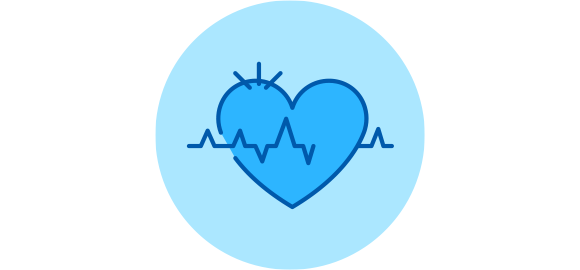
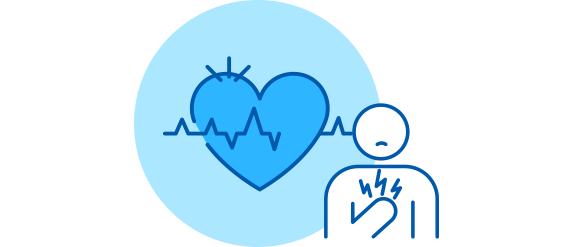
4차 mobile 9페이지 수정 완료

Changed region(s): [[0.207, 0.0, 0.7687, 1.0]]

diff --git a/m/css/page.css b/m/css/page.css
@@ -105,7 +105,7 @@
 .subPage main{ margin-top: 5.313rem; position: relative; z-index: 2; background-color: white; margin-bottom: 41.875rem;}
 .subPage main.aboutUsArea{/* padding-top: 5.313rem; */ padding-bottom:12.500rem; }
 .subPage main.supportsArea{padding-top: 8.438rem;}
-.subPage main.customresArea{padding-top: 8.438rem; padding-bottom:12.500rem;}
+.subPage main.customresArea{/* padding-top: 8.438rem; */ padding-bottom:12.500rem;}
 /* .aboutUsArea{padding-top: 8.438rem; padding-bottom:12.500rem;} */
 
 .subPage main .subTitlaBox{height: 175px; display: flex; flex-direction: column; justify-content: center; align-items: center;  background-repeat: no-repeat; background-position: center; background-size: cover;}
@@ -414,18 +414,18 @@
 .solutionArea > .contentArea > *{margin-bottom: 11.875rem;}
 
 .subPage .solutionArea .subMenu{margin-bottom: 0;}
-.solutionArea .startArea{text-align: center; position: relative; margin-bottom: 13.750rem; padding: 9.375rem 0 0;  background-color: #f5f8fa;}
-/* .solutionArea .startArea::before{content: ''; position: absolute; left: 0; top: -6.875rem; width: 100%; height: 35.000rem;background-color: #f5f8fa; z-index: -1;} */
+.solutionArea .startArea{text-align: center; position: relative; margin-bottom: 13.750rem; padding: 9.375rem 0 0;/*   background-color: #f5f8fa; */}
+.solutionArea .startArea::before{content: ''; position: absolute; left: 0; top: /* -6.875rem */0; width: 100%; height: 38.000rem;background-color: #f5f8fa; z-index: -1;}
 .solutionArea .startArea h4{font-size: 3.000rem; font-weight: 400; line-height: 3.625rem; margin-bottom: 2.188rem;}
 .solutionArea .startArea h4 b{font-weight: 700;}
 .solutionArea .startArea p{font-size: 1.375rem; line-height: 2.250rem; margin-bottom: 7.188rem;}
-.solutionArea .startArea img{width: 100%; max-width: 640px;}
-/* .solutionArea .startArea ol{display: flex; justify-content: center;}
+/* .solutionArea .startArea img{width: 100%; max-width: 640px;} */
+.solutionArea .startArea ol{display: flex; justify-content: center;}
 .solutionArea .startArea ol li{width: 22.938rem; height: 9.188rem; background-repeat: no-repeat; background-position: center top; position: relative; background-size: 9.188rem;}
 .solutionArea .startArea ol li:nth-child(1){background-image: url('../images/customres_solutionStart01.png');}
 .solutionArea .startArea ol li:nth-child(2){background-image: url('../images/customres_solutionStart02.png');}
 .solutionArea .startArea ol li:nth-child(3){background-image: url('../images/customres_solutionStart03.png');}
-.solutionArea .startArea ol li span{font-size: 1.375rem; font-weight: 700; line-height: 1.875rem; color: #34393e; text-align: center; position: absolute; top: calc(100% + 1.250rem); left: 0; width: 100%;  } */
+.solutionArea .startArea ol li span{font-size: 1.375rem; font-weight: 700; line-height: 1.875rem; color: #34393e; text-align: center; position: absolute; top: calc(100% + 1.250rem); left: 0; width: 100%;  }
 
 /* .solutionArea .kindArea{margin-bottom: 190px;} */
 .solutionArea .kindArea h5 ~ p:last-of-type{margin-bottom: 6.875rem;}
@@ -440,17 +440,22 @@
 .solutionArea .kindArea > div ul li strong mark{font-size: 1.375rem; font-weight: 700; display: block; margin-top: 1.250rem;}
 .solutionArea .kindArea > div ul li p{font-size: 1.188rem; line-height: 1.750rem;}
 
-.solutionArea .kindArea > div > strong{font-size: 1.750rem; font-weight: 700; display: block;}
-.solutionArea .kindArea > div > strong{margin-bottom: 2.500rem;}
-.solutionArea .kindArea > div > strong:not(:first-of-type){margin-top: 4.688rem;}
-.solutionArea .kindArea > div > img{width: 100%; max-width: 640px; margin-bottom: 1.875rem;}
-.solutionArea .kindArea > div > p{font-size: 1.313rem; line-height: 1.813rem;}
-.solutionArea .kindArea > div > p:not(:first-of-type){margin-top: 1.875rem;}
-.solutionArea .kindArea > div > p b{font-weight: 700;}
+.solutionArea .kindArea > div strong{font-size: 1.750rem; font-weight: 700; display: block;}
+.solutionArea .kindArea > div strong{margin-bottom: 2.500rem;}
+.solutionArea .kindArea > div strong:not(:first-of-type){margin-top: 4.688rem;}
+.solutionArea .kindArea > div img{width: 100%; max-width: 640px; /* margin-bottom: 1.875rem; */}
+.solutionArea .kindArea > div p{font-size: 1.313rem; line-height: 1.813rem;}
+.solutionArea .kindArea > div p:not(:first-of-type){margin-top: 1.875rem;}
+.solutionArea .kindArea > div p b{font-weight: 700;}
 
-.solutionArea .diagnosisArea{background-color:#f5f8fa; padding: 8.438rem 0 6.250rem;}
-.solutionArea .diagnosisArea > div{position: relative; padding-bottom: 29.375rem;}
-.solutionArea .diagnosisArea > div::after{content: ''; position: absolute; right: 0; bottom: 0; width: 100%; height: 26.875rem; background: url('../images/customres_solutionDiagnosisBG.png') no-repeat center / 25.313rem;}
+.solutionArea .causeArea img{margin-bottom: 55px;}
+
+.solutionArea .symptomArea p:last-of-type{margin-bottom: 55px;}
+
+.solutionArea .diagnosisArea{background:#f5f8fa url('../images/customres_solutionDiagnosisBG.png') no-repeat center bottom / 100%; padding: 8.438rem 0 480px; position: relative;}
+.solutionArea .diagnosisArea::before{content: ''; position: absolute; left: 0; bottom: 0; width: 320px; height: 450px; background: url('../images/customres_solutionDiagnosisImg02.png') no-repeat center / cover;}
+.solutionArea .diagnosisArea::after{content: ''; position: absolute; right: 0px; bottom: -150px; width: 320px; height: 588px; background: url('../images/customres_solutionDiagnosisImg01.png') no-repeat center / cover;}
+.solutionArea .diagnosisArea > div{position: relative; /* padding-bottom: 29.375rem; */}
 .solutionArea .diagnosisArea > div > p:last-of-type{margin-bottom: 6.250rem;}
 .solutionArea .diagnosisArea > div strong{font-size: 2.000rem; font-weight: 500; line-height: 2.313rem; display: block; margin-bottom: 2.500rem; letter-spacing: -0.063em;}
 .solutionArea .diagnosisArea > div ul li{font-size: 1.313rem; line-height: 1.750rem; padding-left: 3.125rem; position: relative;}
@@ -461,8 +466,9 @@
 .solutionArea .diagnosisArea > div ul li:not(:last-child){margin-bottom: 1.875rem;}
 
 .solutionArea .cureArea h5{margin-bottom: 4.375rem;}
-.solutionArea .cureArea > ul > li{height: 15.000rem; padding: 0 0 0 3.125rem; display: flex; flex-direction: column; justify-content: center; box-sizing: border-box; background-color: white; background-repeat: no-repeat; background-position: right top;  background-size: 11.875rem; box-shadow: 0px 0px 0.625rem 0px rgba(0, 0, 0, 0.2);}
-.solutionArea .cureArea > ul > li:not(:last-child){margin-bottom: 1.875rem;}
+.solutionArea .cureArea > ul{border-top: 1px solid #c7c7c7;}
+.solutionArea .cureArea > ul > li{height: 15.000rem; padding: 0 0 0 3.125rem; display: flex; flex-direction: column; justify-content: center; box-sizing: border-box; background-color: white; background-repeat: no-repeat; background-position: right top;  background-size: 11.875rem; border-bottom: 1px solid #c7c7c7;}
+/* .solutionArea .cureArea > ul > li:not(:last-child){margin-bottom: 1.875rem;} */
 .solutionArea .cureArea > ul > li:nth-child(1){background-image: url('../images/customres_solutionCure01.png');}
 .solutionArea .cureArea > ul > li:nth-child(2){background-image: url('../images/customres_solutionCure02.png');}
 .solutionArea .cureArea > ul > li:nth-child(3){background-image: url('../images/customres_solutionCure03.png');}

diff --git a/m/customres_solution.html b/m/customres_solution.html
@@ -64,12 +64,12 @@
 
         <main class="solutionArea customresArea">
             <div class="mobileWidth">
-                <h2>customres</h2>
+                <h2 class="textHidden">customres</h2>
                 <h3 class="textHidden">solution</h3>
-                <ul class="subMenu">
+                <!-- <ul class="subMenu">
                     <li class="active"><a href="customres_solution.html">solution</a></li>
                     <li><a href="customres_howTo.html">How to use</a></li>
-                </ul>
+                </ul> -->
             </div>
             <div class="contentArea">
                 <div class="startArea">
@@ -80,8 +80,8 @@
                         대부분 부정맥은 대수롭지 않으며 위험하지 않습니다.<br/>
                         하지만, 매우 소수의 사람에게서 위험한 부정맥이 발생할 수 있으며 즉각적인 치료가 필요합니다.
                     </p>
-                    <img src="images/customres_solutionStartImg.png" alt="">
-                   <!--  <ol>
+                    <!-- <img src="images/customres_solutionStartImg.png" alt=""> -->
+                    <ol>
                         <li>
                             <span>
                                 부정맥이란?
@@ -97,7 +97,7 @@
                                 부정맥의 치료와<br/> 예방은?
                             </span>
                         </li>
-                    </ol> -->
+                    </ol>
                 </div>
 
                 <section class="kindArea mobileWidth">
@@ -145,30 +145,36 @@
                         </ul>
                     </div>
 
-                    <div>
-                        <strong>부정맥의 발생 원인</strong>
-                        <img src="images/customres_solutionCauseImg01.png" alt="">
-                        <p>
-                            부정맥의 가장 흔한 원인은 관상동백 질환, 판막 질환, 심부전과 같은 심장 질환입니다.
-                            심장 질환이 있으면 정상적인 전기신호체계에  영향을 미칠 수 있기 때문입니다.
-                            <mark>부정맥은 알코올, 흡연, 카페인, 운동 등에 의해 발생할 수 있으며</mark> 특별한 원인이 없이도  발생할 수 있습니다.
-                            이 밖에도 부정맥의 원인으로 폐질환, 자율신경계 이상, 항부정맥제 같은 약물의 부작용, 내분지질환 등도 있습니다.
-                        </p>
-                        <strong>부정맥의 증상에는 어떤 것이 있나요?</strong>
-                        <img src="images/customres_solutionCauseImg02.png" alt="">
-                        <p>
-                            부정맥의 종류가 여러가지로 다양하듯이 부정맥의 증상도 무증상 부터 실신이나 심장 돌연사에 이르기까지 매우 다양합니다. <br/>
-                            부정맥의 증상 가운데는 <b>가장 흔한 것은 가슴 두근거림</b> 입니다.
-                        </p>
-                        <p>
-                            흥분하지 않았을 경우에 갑작스럽게 발생하는 두근거림은 부정맥을 강력히 의심해 볼 수 있습니다.<br/>
-                            그리고 부정맥으로 인해 심장이 피를 제대로 펌프질하지 못하게 되고 이 때문에<br/>
-                            호흡곤란이나 흉부 압박감, 통증, 어지럼증, 실신 등이  유발될 수 있고 일부는 급사라 첫증상으로 나타나기도 합니다.  
-                        </p>
-                        <p>
-                            그렇기 때문에 <mark>부정맥은 조기진단이 매우 중요합니다. </mark><br/>
-                            특히 가장 흔한 부정맥인 심방세동의  조기진단과 적극적인 치료는 뇌졸증의 위험을 효과적으로 감소 시킬 수 있습니다.
-                        </p>
+                    <div class="causeArea">
+                        <img src="images/customres_solutionCauseImg01.png" alt="부정맥의 발생 원인 이미지">
+                        <div>
+                            <strong>부정맥의 발생 원인</strong>
+                            <p>
+                                부정맥의 가장 흔한 원인은 관상동백 질환, 판막 질환, 심부전과 같은 심장 질환입니다.<br/>
+                                심장 질환이 있으면 정상적인 전기신호체계에  영향을 미칠 수 있기 때문입니다.<br/>
+                                <mark>부정맥은 알코올, 흡연, 카페인, 운동 등에 의해 발생할 수 있으며</mark> 특별한 원인이 없이도  발생할 수 있습니다.<br/>
+                                이 밖에도 부정맥의 원인으로 폐질환, 자율신경계 이상, 항부정맥제 같은 약물의 부작용, 내분지질환 등도 있습니다.
+                            </p>
+                        </div>
+                    </div>
+                    <div class="symptomArea">
+                        <div>
+                            <strong>부정맥의 증상에는 어떤 것이 있나요?</strong>
+                            <p>
+                                부정맥의 종류가 여러가지로 다양하듯이 부정맥의 증상도 무증상 부터 실신이나 심장 돌연사에 이르기까지 매우 다양합니다. <br/>
+                                부정맥의 증상 가운데는 <b>가장 흔한 것은 가슴 두근거림</b> 입니다.
+                            </p> 
+                            <p>
+                                흥분하지 않았을 경우에 갑작스럽게 발생하는 두근거림은 부정맥을 강력히 의심해 볼 수 있습니다.<br/>
+                                그리고 부정맥으로 인해 심장이 피를 제대로 펌프질하지 못하게 되고 이 때문에
+                                호흡곤란이나 흉부 압박감, 통증, 어지럼증, 실신 등이  유발될 수 있고 일부는 급사라 첫증상으로 나타나기도 합니다.  
+                            </p>
+                            <p>
+                                그렇기 때문에 부정맥은 <mark>조기진단이 매우 중요합니다. </mark><br/>
+                                특히 가장 흔한 부정맥인 심방세동의  조기진단과 적극적인 치료는 뇌졸증의 위험을 효과적으로 감소 시킬 수 있습니다.
+                            </p>
+                        </div>
+                        <img src="images/customres_solutionCauseImg02.png" alt="부정맥의 증상에는 어떤 것이 있나요? 이미지">
                     </div>
                 </section>
 
